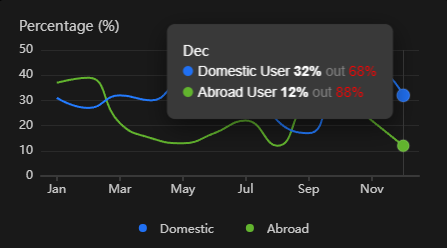
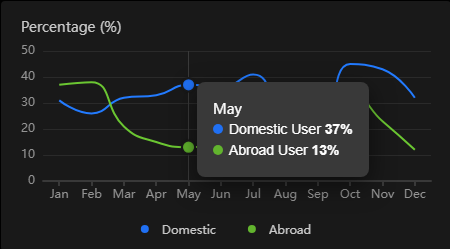
update example

diff --git a/public/option/LineChart/LineChart-34.js b/public/option/LineChart/LineChart-34.js
@@ -9,6 +9,8 @@ const option = {
         position:(point)=>{
             return point
         },
+        // 增加可复制的css样式
+        extraCssText:'user-select:text;-webkit-user-select:text;',
         formatter: (params) => {
             let htmlString = '';
             params.forEach((item, i) => {
@@ -22,8 +24,6 @@ const option = {
                     '<span style="margin-left:6px;>' +
                     '<span style="width:100px;display:inline-block;">' + item.seriesName + ' User</span>' +
                     '<span style="font-weight:bold"> ' + item.value + '%</span>' +
-                    '<span style="color:gray"> out </span>' +
-                    '<span style="color:red">' + (100 - item.value) + '%</span>' +
                     '</span>' +
                     '</div>';
             });
